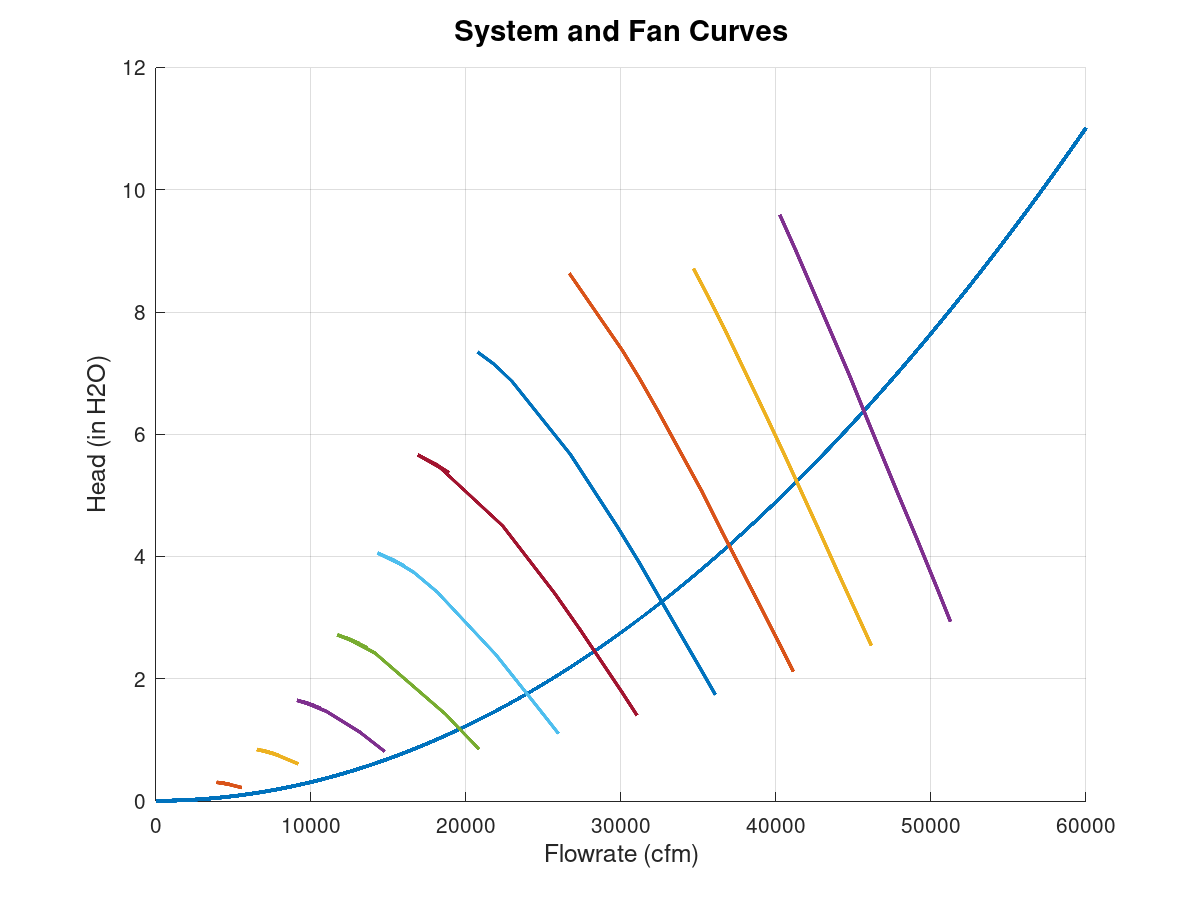
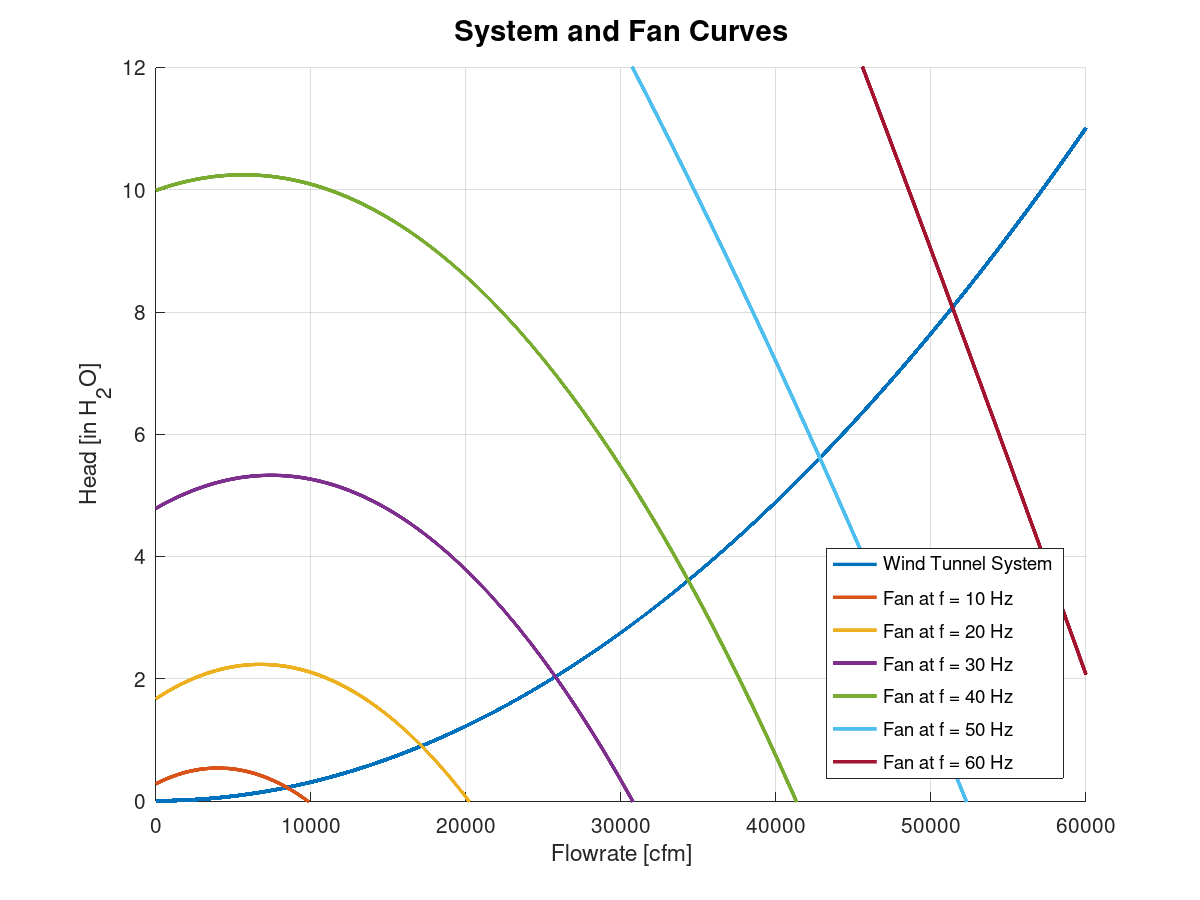
Finished curve manual intersection

diff --git a/Midterm.m b/Midterm.m
@@ -21,6 +21,7 @@ Q = Qcfm*(1/60); %[ft^3/s]
 dsheave_motor = 8; %[in]
 dsheave_fan = 10; %[in]
 p = 4; %[#]
+omega_arr = VFD_w * 120 / p;
 
 % Velocity Term
 Aout_fan = 8.9; %[ft^2]
@@ -83,20 +84,39 @@ hold on;
 plot(Qcfm, H, "LineWidth", 2);
 
 % Fan curves
-omega_arr = [linspace(230, 1600, 10)];
-
 for idx = 1:length(omega_arr)
    omega = omega_arr(idx);
-   [h, q] = get_perf_curve_affinity(omega);
-   plot(q, h, "LineWidth", 2);
+   [h_raw, q_raw] = get_perf_curve_affinity(omega);
+   coeffs = polyfit(q_raw, h_raw, 2);
+   a = coeffs(1);
+   b = coeffs(2);
+   c = coeffs(3);
+   q_fit = linspace(0, 60000, 1000);
+   h_fit = a*q_fit.^2 + b*q_fit + c;
+   plot(q_fit, h_fit, "LineWidth", 2);
+
 end
+
+legendLabels = ["Wind Tunnel System",
+                "Fan at f = 10 Hz",
+                "Fan at f = 20 Hz",
+                "Fan at f = 30 Hz",
+                "Fan at f = 40 Hz",
+                "Fan at f = 50 Hz",
+                "Fan at f = 60 Hz"];
+
+legend(legendLabels, "Location", "SouthEast");
+
+xlim([0, 60000]);
+ylim([0, 12]);
 
 hold off;
 grid on;
 
-xlabel('Flowrate (cfm)', "FontSize", 12);
-ylabel('Head (in H2O)', "FontSize", 12);
-title ('System and Fan Curves', "FontSize", 14);
+xlabel('Flowrate [cfm]');
+ylabel('Head [in H_2O]');
+title ('System and Fan Curve Intersection', "FontSize", 14);
+set(gca,'TickLabelInterpreter','latex')
 
 saveas(gcf, "curves.png");
 
